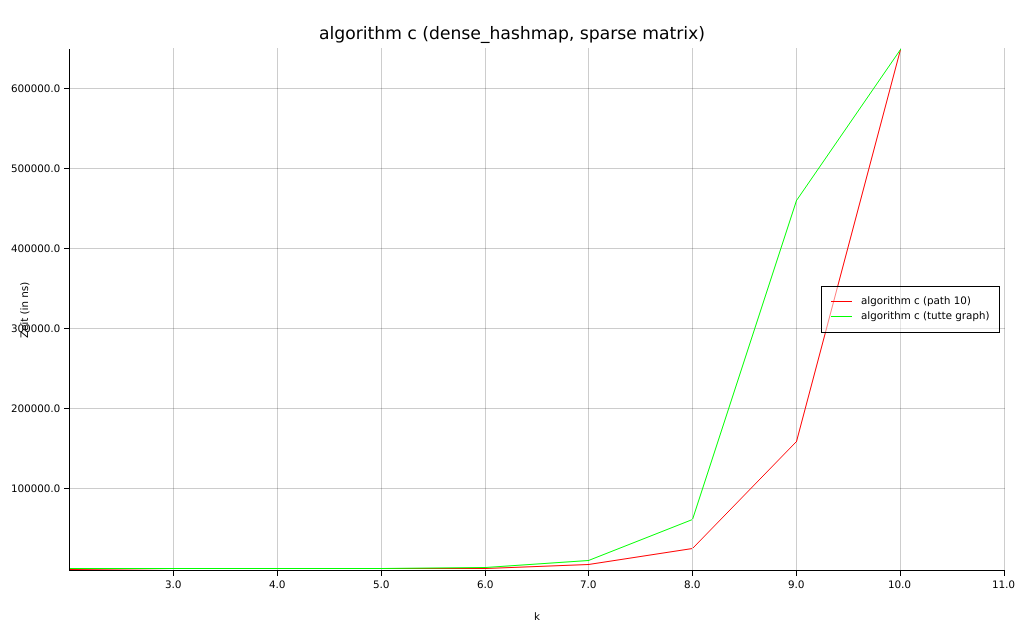
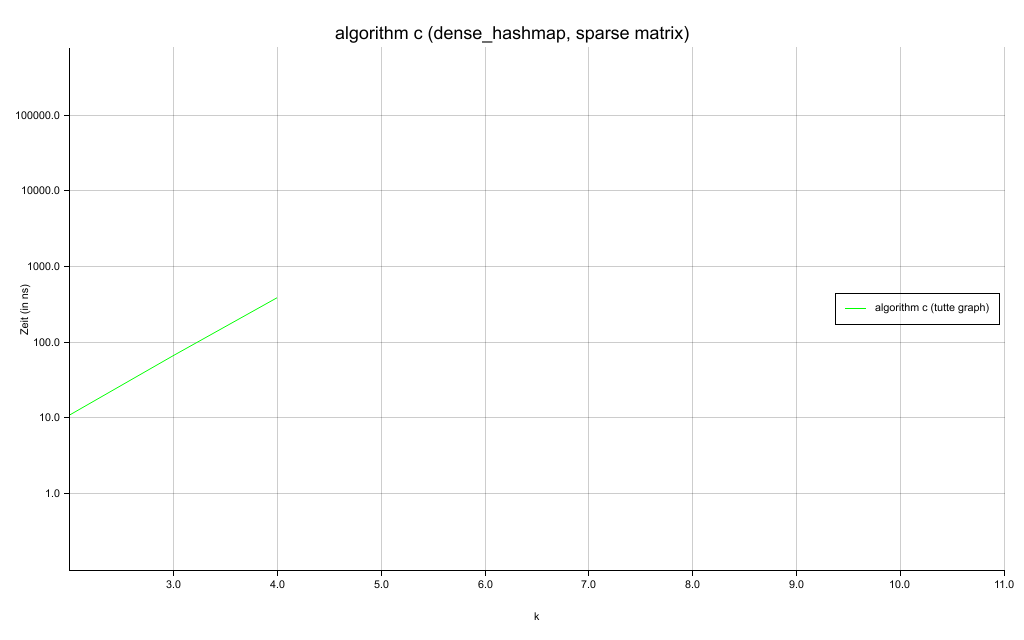
Fix log plot

diff --git a/benches/algorithm.rs b/benches/algorithm.rs
@@ -2,15 +2,12 @@ mod utils;
 
 use extensor_coding::{algorithm, graph::Graph};
 use indicatif::{ProgressBar, ProgressStyle};
-use plotters::{
-    prelude::{IntoLogRange, LogRange},
-    style,
-};
+use plotters::{prelude::IntoLogRange, style};
 use std::time::Instant;
 
 fn bench_c(num_iter: u64, path_str: &str, prog_style: &ProgressStyle) -> Vec<Vec<f64>> {
     let mut times = Vec::new();
-    let max_k = 10;
+    let max_k = 9;
     let bar = ProgressBar::new(num_iter);
     bar.set_style(prog_style.clone());
 
@@ -26,6 +23,7 @@ fn bench_c(num_iter: u64, path_str: &str, prog_style: &ProgressStyle) -> Vec<Vec
             let elapsed = now.elapsed().as_millis() as f64;
 
             times_per_iter.push(elapsed);
+            println!("k: {}", k);
         }
 
         times.push(times_per_iter);
@@ -69,12 +67,12 @@ fn main() {
         .template("[{elapsed_precise}] {bar:40.cyan/blue} {pos:>7}/{len:7} {msg}")
         .progress_chars("=>-");
 
-    let times_algo_c_10 = bench_c(2, "src/data/path10.g6", &prog_style);
-    let times_algo_c_100 = bench_c(2, "src/data/path100.g6", &prog_style);
+    //   let times_algo_c_10 = bench_c(2, "src/data/path10.g6", &prog_style);
+    //    let times_algo_c_100 = bench_c(2, "src/data/path100.g6", &prog_style);
     let times_algo_c_tutte = bench_c(2, "src/data/tutte_graph.g6", &prog_style);
 
     let result = vec![
-        (
+        /*       (
             "algorithm c (path 10)".to_string(),
             style::RED,
             times_algo_c_10,
@@ -83,7 +81,7 @@ fn main() {
             "algorithm c (path 100)".to_string(),
             style::BLUE,
             times_algo_c_100,
-        ),
+        ), */
         (
             "algorithm c (tutte graph)".to_string(),
             style::GREEN,
@@ -94,7 +92,7 @@ fn main() {
         "algorithm c (dense_hashmap, sparse matrix)",
         (
             ("k", 2f32..11f32),
-            ("Zeit (in ns)", (0f32..80000f32).log_scale()),
+            ("Zeit (in ns)", (0.1f32..800000f32).log_scale()),
         ),
         2,
         "benches/output/algo",

diff --git a/src/bin/main.rs b/src/bin/main.rs
@@ -2,21 +2,15 @@ use extensor_coding::{algorithm, graph::Graph};
 use std::time::Instant;
 
 fn main() {
-    // let g = Graph::from_tsv("src/data/out.moreno_kangaroo_kangaroo");
-    let g = Graph::from(
-        7,
-        vec![
-            0, 1, 0, 0, 1, 0, 0, 0, 0, 1, 1, 0, 0, 0, 0, 0, 0, 0, 0, 0, 0, 0, 0, 0, 0, 0, 0, 0, 0,
-            0, 0, 0, 0, 1, 1, 0, 0, 0, 0, 0, 0, 0, 0, 0, 0, 0, 0, 0, 0,
-        ],
-    );
+    let g = Graph::from_tsv("src/data/out.moreno_kangaroo_kangaroo");
+    // let g = Graph::from_graph6("src/data/path10.g6");
     let k = 2;
-    let eps = 0.1;
+    let eps = 0.2;
 
     let now = Instant::now();
     let res = algorithm::c(g, k, eps);
     println!("took {}ms", now.elapsed().as_millis());
 
     println!("res: {}", res);
-    println!("{} {} {}", (1.0 - eps) * 10.0, res, (1.0 + eps) * 10.0);
+    println!("{} {} {}", (1.0 - eps) * 18.0, res, (1.0 + eps) * 18.0);
 }

diff --git a/src/algorithm/mod.rs b/src/algorithm/mod.rs
@@ -43,7 +43,7 @@ pub fn c(g: Graph, k: usize, eps: f64) -> f64 {
     let mut sum = 0.0;
     let mut ssum = 0.0;
 
-    while t < 4 * (k as f64 / eps.powf(2.0)) as i32 {
+    while t < 100 * ((k as f64).powf(3.0) / eps.powf(2.0)) as i32 {
         let bernoulli_mapping = utils::create_bernoulli(g.num_vert(), k);
         let v_j = g.compute_walk_sum(k, bernoulli_mapping);
         let coeffs = if v_j.coeffs().is_empty() {
@@ -52,7 +52,7 @@ pub fn c(g: Graph, k: usize, eps: f64) -> f64 {
             v_j.coeffs()[0] as f64
         };
         let denom = utils::factorial(k) as f64;
-        let x_j = coeffs.abs() as f64 / denom;
+        let x_j = (coeffs.abs() as f64) / denom;
 
         sum += x_j;
         ssum += x_j * x_j;

diff --git a/src/utils.rs b/src/utils.rs
@@ -173,8 +173,9 @@ mod tests {
         let k = 3;
         let n = 5;
         let coding = create_bernoulli(n, k);
-        for _i in 0..n {
-            let vert_val = &coding[4];
+        for i in 0..n {
+            let vert_val = &coding[i];
+            println!("v: {}", vert_val);
             for coeff in vert_val.coeffs() {
                 assert!(
                     coeff == 1 || coeff == -1,

diff --git a/benches/utils.rs b/benches/utils.rs
@@ -105,7 +105,7 @@ pub fn plot_results_log(
         .margin(20)
         .x_label_area_size(50)
         .y_label_area_size(50)
-        .build_cartesian_2d(x_range.clone(), y_range.clone())?;
+        .build_cartesian_2d(x_range, y_range)?;
 
     run_chart
         .configure_mesh()
